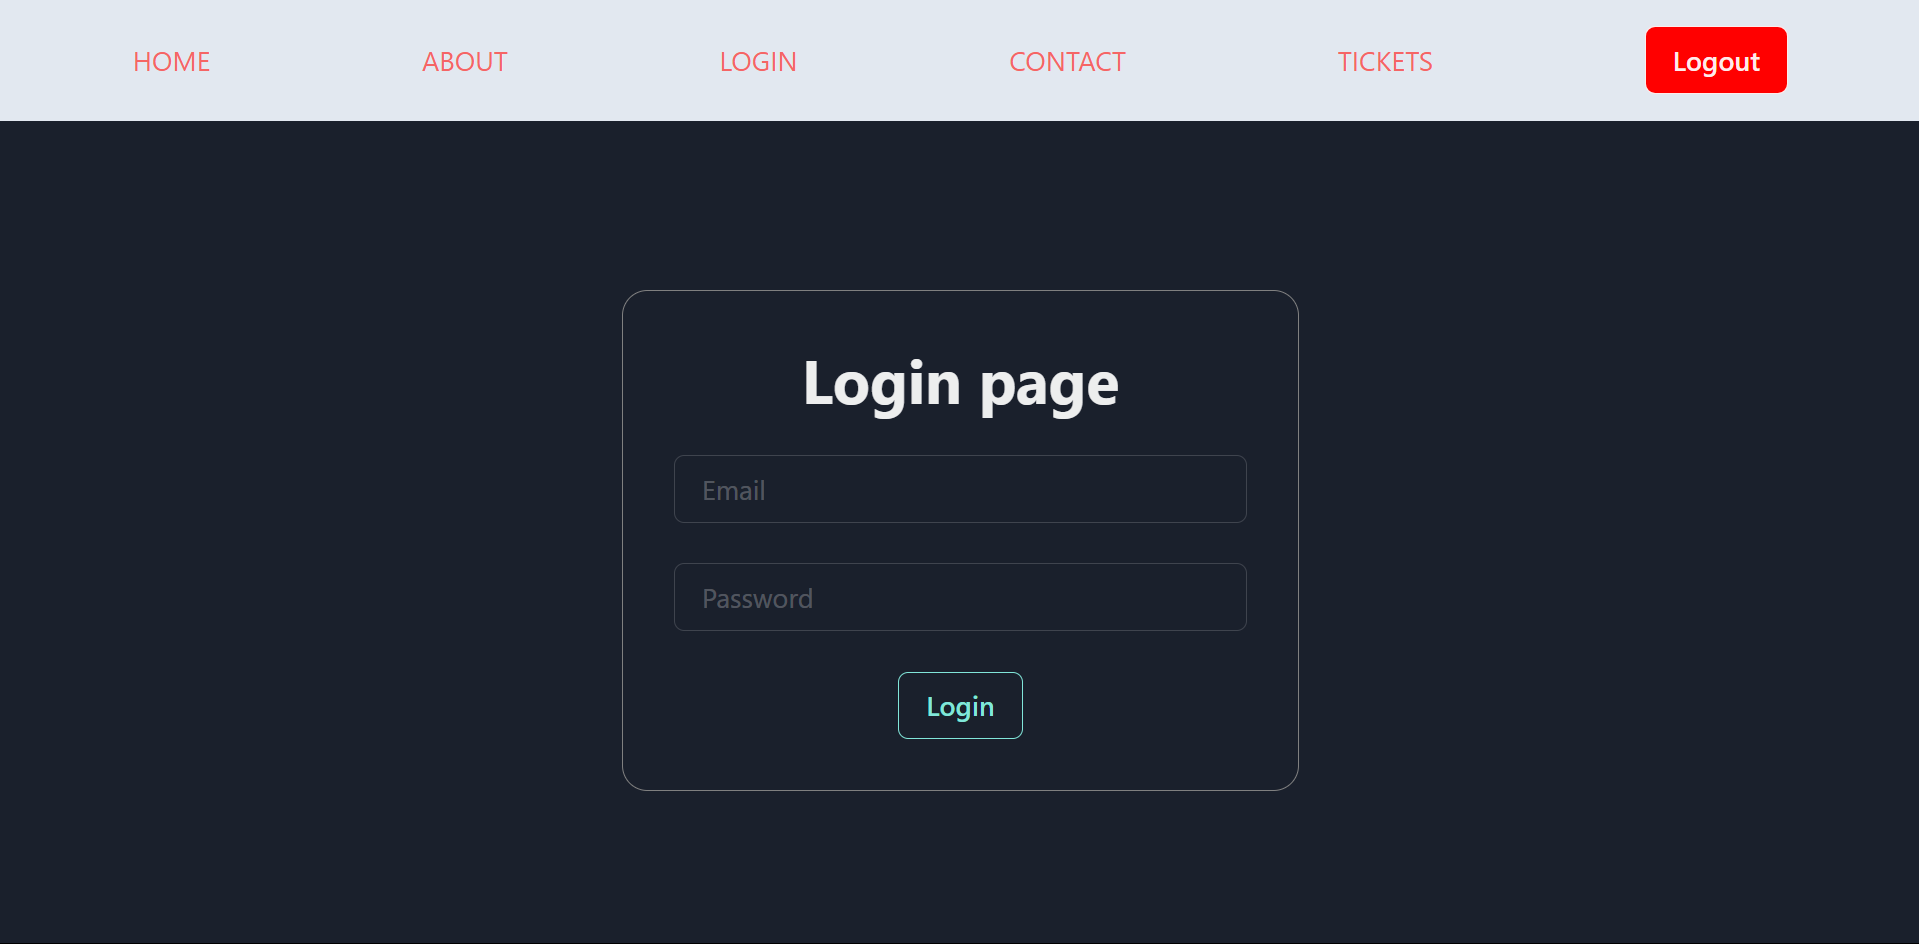
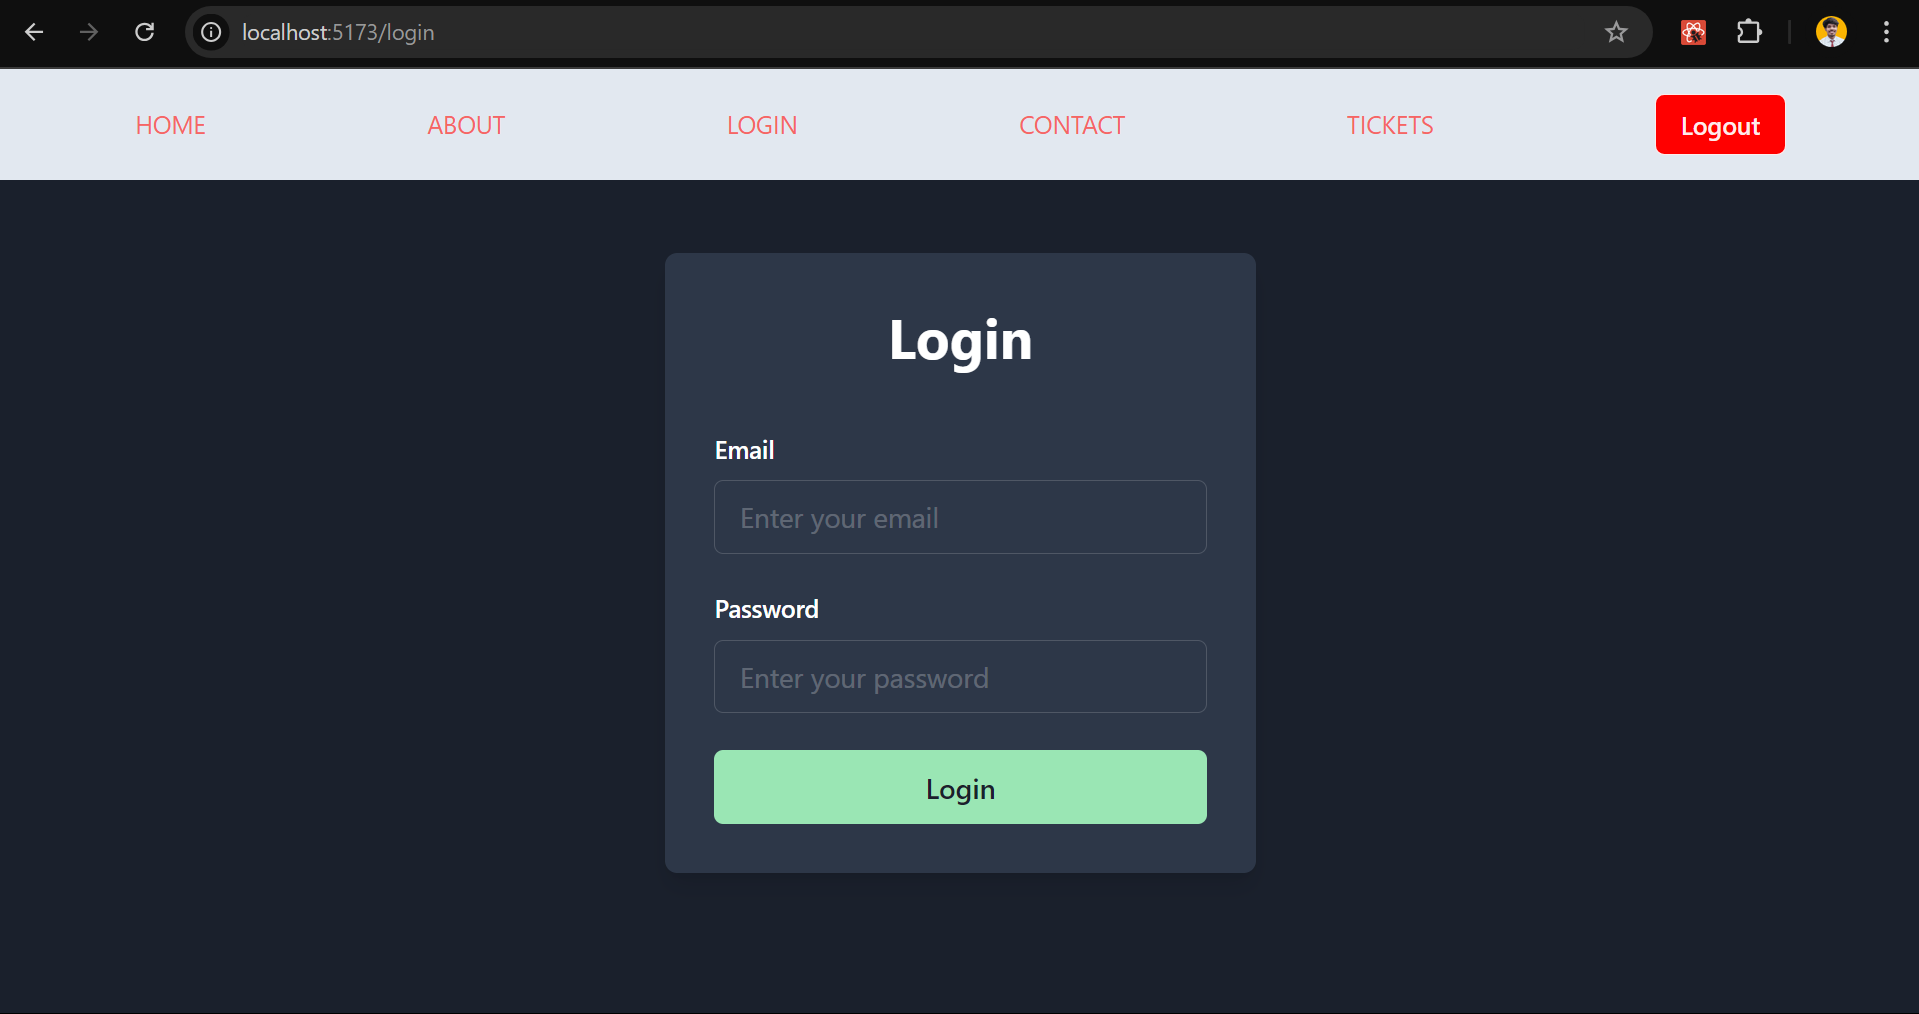
Readme File Update

diff --git a/Advanced Ticket Management/src/Pages/Tickets.jsx b/Advanced Ticket Management/src/Pages/Tickets.jsx
@@ -89,7 +89,7 @@ const Tickets = () => {
 
       <HStack spacing={8} my={8}>
         <Select
-          // placeholder="Sort by Priority"
+          
           value={sortOrderValue}
           onChange={(e) => {
             setSortOrderValue(e.target.value);

diff --git a/Advanced Ticket Management/README.md b/Advanced Ticket Management/README.md
@@ -1,33 +1,136 @@
-# Ticket View Page
+# React_Final_Project
+
+># Using the following tools and technologies: React (useState, useContext, useEffect, useRef), Chakra UI, React Router, and Axios, your task is to build a web application with the following features:
+```
+EmailID : eve.holt@reqres.in
+PAssword : cityslicka
+```
+
+using vite (https://vitejs.dev/guide/)
+
+## Backend
+
+## Frontend
+    - Pages
+        - Home
+        - Login
+        - Register
+        - Tasks
+        - About
+        - Contact
+
+    - Components
+        - Navbar
+        - AllRoutes
+
+    - Tools that we will use to build the project
+        - React and React-dom
+        - Chakra ui for Styling 
+        (https://v2.chakra-ui.com/getting-started)
+        - React Router Dom for Routing 
+        (https://www.npmjs.com/package/react-router-dom),
+        (https://reactrouter.com/en/main/router-components/browser-router)
+        - Axios For Fetching Data
+
+
+---------------------------------------------------------------------------
+
+>1. The web application should have multiple pages:
+
+- Home
+- About
+- Contact
+- Tickets
+- Ticket View
+- Ticket Create
+- Ticket Edit
+- Login
+
+---------------------------------------------------------------------------
+
+>2. The Navbar should be visible on all pages and include links to Home, About, Contact, Tickets, and Login. It should also have a LOGOUT button that logs out the user and redirects to the login page. The LOGOUT button should only be visible when the user is logged in.
+
+---------------------------------------------------------------------------
+
+>3. All pages except the Login page should be accessible only to logged-in users. If a user is not logged in, they should be redirected to the login page. This means that only the Login Page is a public route, while all other pages are private routes.
+
+---------------------------------------------------------------------------
+
+>4. Home Page: Create a visually appealing UI similar to this example.
+
+![Home page](./src/assets/image8.png)
+
+---------------------------------------------------------------------------
+
+>5. About Page: Create a visually appealing UI similar to this example.
+![About Page](./src/assets/image9.png)
+
+---------------------------------------------------------------------------
+
+>6. Contact Us Page: Use this page as a reference to build the Contact Us page.
+
+---------------------------------------------------------------------------
+
+>11. Login Page: This page will contain the following elements:
+
+![Login page](./src/assets/image7.png)
+
+    - Input box for email
+    - Input box for password
+
+- **Create a login button.**
+- **The login button will make a POST request to the API endpoint `https://reqres.in/api/login`.**
+- **If the request is successful:**
+  - Redirect to the Home page.
+  - Save the returned token in the AuthContext.
+- **If the request is unsuccessful:**
+  - Display an error message.
+- **Use AuthContext to maintain:**
+  - `isLoggedIn` status.
+  - The authentication token.
+
+
+-------------------------------------------------------------------
+
+># Tickets Page Design Notes
+
+![Tickets page](./src/assets/image10.png)
 
 ## Overview
-The Ticket View Page displays detailed information about a specific ticket. It includes the following details:
-- Title
-- Description
-- Assignee
-- Status
-- Priority
+The Tickets Page is designed to allow users to create, view, and manage tickets. This page will feature a button to create new tickets, a grid layout to display existing tickets, and sorting and filtering options to organize the tickets.
 
-Additionally, the page provides two action buttons:
-- Edit: Redirects the user to the Ticket Edit page.
-- Delete: Deletes the ticket and redirects the user back to the Tickets page.
+## Layout Done
+- **Create Ticket Button**: Positioned at the top right corner, this button redirects users to the Ticket Create page.
+- **Ticket Cards**: Tickets are displayed as cards in a grid layout:
+  - **Large Screens (≥1200px)**: 3 cards per row
+  - **Medium Screens (≥992px)**: 2 cards per row
+  - **Small Screens (<992px)**: 1 card per row
+- **Card Contents**: Each card includes:
+  - Title
+  - Status
+  - Priority
+  - View Button: Redirects to the Ticket View page
 
-## Components and Functionality
+## Sorting and Filtering
+- **Sort by Priority**:
+  - "Low to High"
+  - "High to Low"
+- **Filter by Status**:
+  - "Pending"
+  - "Progress"
+  - "Completed"
 
-### Ticket Details
-The page should display the following ticket details:
-- **Title**: The title of the ticket.
-- **Description**: A detailed description of the ticket.
-- **Assignee**: The name of the person assigned to the ticket.
-- **Status**: The current status of the ticket (Pending, Progress, Completed).
-- **Priority**: The priority level of the ticket (0 to 9).
+## Functionality
+- **Create Ticket Button**: When clicked, redirects to the Ticket Create page.
+![Edit Tickets](./src/assets/image13.png)
 
-### Edit Button
-- **Purpose**: Allows the user to edit the ticket.
-- **Functionality**: When clicked, the Edit button redirects the user to the Ticket Edit page.
-- **Implementation**: Use React Router's `useHistory` hook or a Link component to navigate to the Ticket Edit page.
+- **View Button**: Each card's View button redirects to the Ticket View page for that specific ticket.
+![View Ticket](./src/assets/image12.png)
 
-### Delete Button
-- **Purpose**: Allows the user to delete the ticket.
-- **Functionality**: When clicked, the Delete button sends a DELETE request to the server to remove the ticket. Upon successful deletion, the user is redirected back to the Tickets page.
-- **Implementation**: Use Axios to send a DELETE request to the appropriate API endpoint. Upon success, use React Router's `useHistory` hook to redirect the user to the Tickets page.
+- **Sorting and Filtering**: 
+  - Sort tickets by priority based on user selection (either "Low to High" or "High to Low").
+  - Filter tickets by status based on user selection ("Pending", "Progress", "Completed").
+  - The ticket display should update dynamically based on the selected sort and filter criteria.
+
+
+
